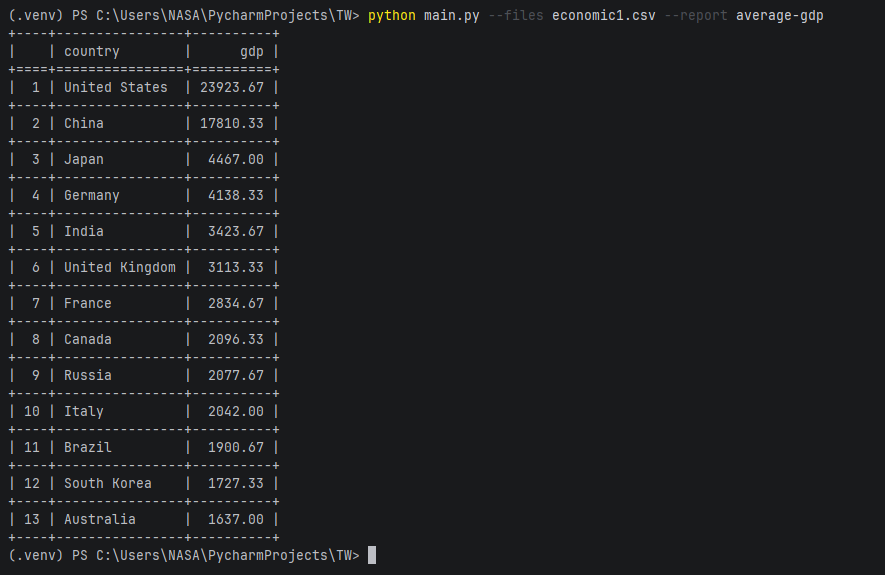
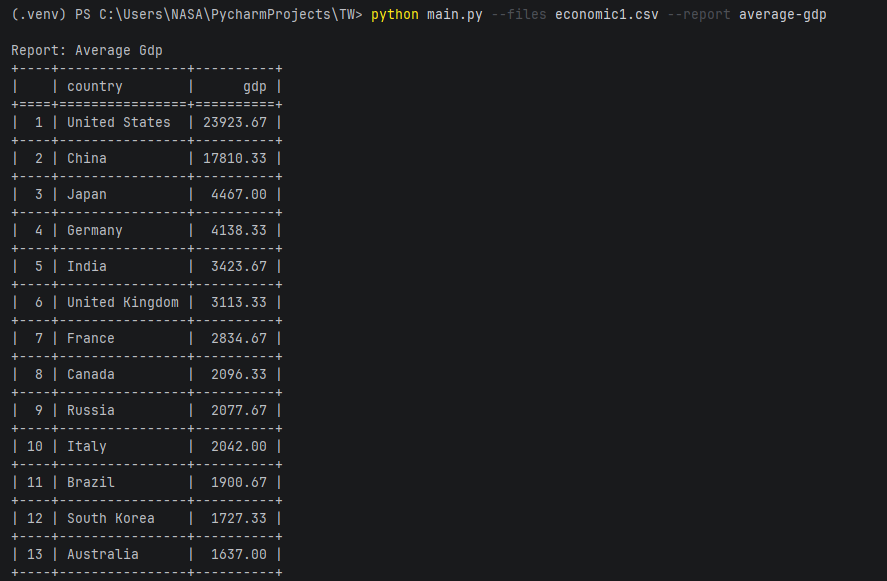
Improved output

Changed region(s): [[0.0, 0.0, 0.9458, 1.0]]

diff --git a/display.py b/display.py
@@ -2,4 +2,5 @@ from tabulate import tabulate
 
 def print_report(data, report_name):
     headers = ['country', 'gdp']
+    print(f"\nReport: {report_name.replace('-', ' ').title()}")
     print(tabulate(data, headers=headers, tablefmt="grid", floatfmt=".2f", showindex=range(1, len(data) + 1)))

diff --git a/main.py b/main.py
@@ -12,7 +12,7 @@ def main():
     args = parser.parse_args()
 
     report_registry = {
-        'average-gdp': AverageGDPReport(),
+        'average-gdp': AverageGDPReport()
     }
 
     if args.report not in report_registry:

diff --git a/reports.py b/reports.py
@@ -7,6 +7,7 @@ class Report(ABC):
 
 class AverageGDPReport(Report):
     def generate(self, data):
+        if not data: return []
         stats = {}
         for row in data:
             country = row['country']

diff --git a/tests/test_reports.py b/tests/test_reports.py
@@ -1,4 +1,3 @@
-import pytest
 from reports import AverageGDPReport
 
 def test_average_gdp():
